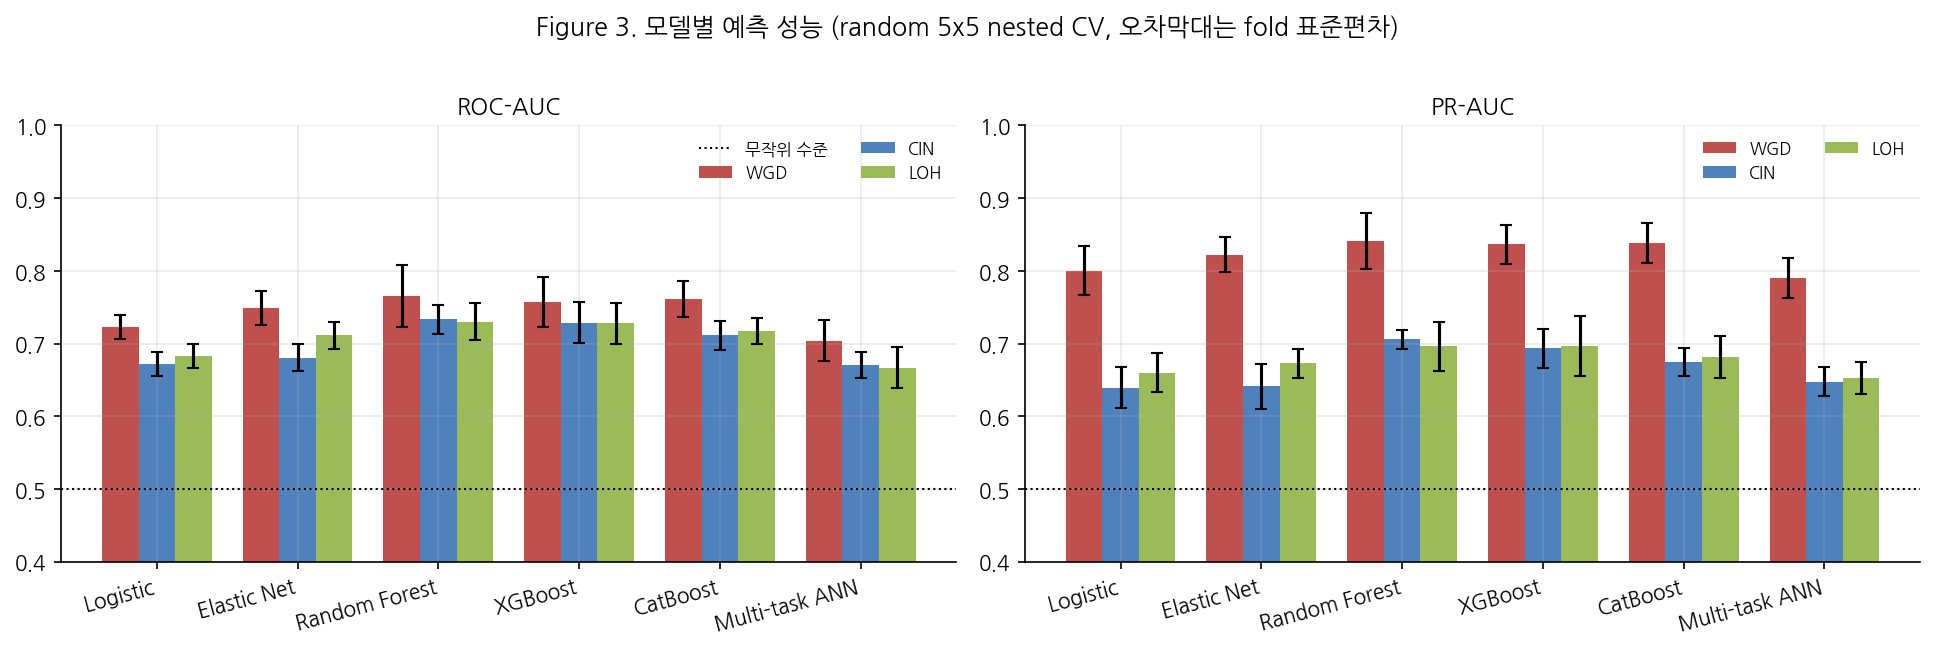
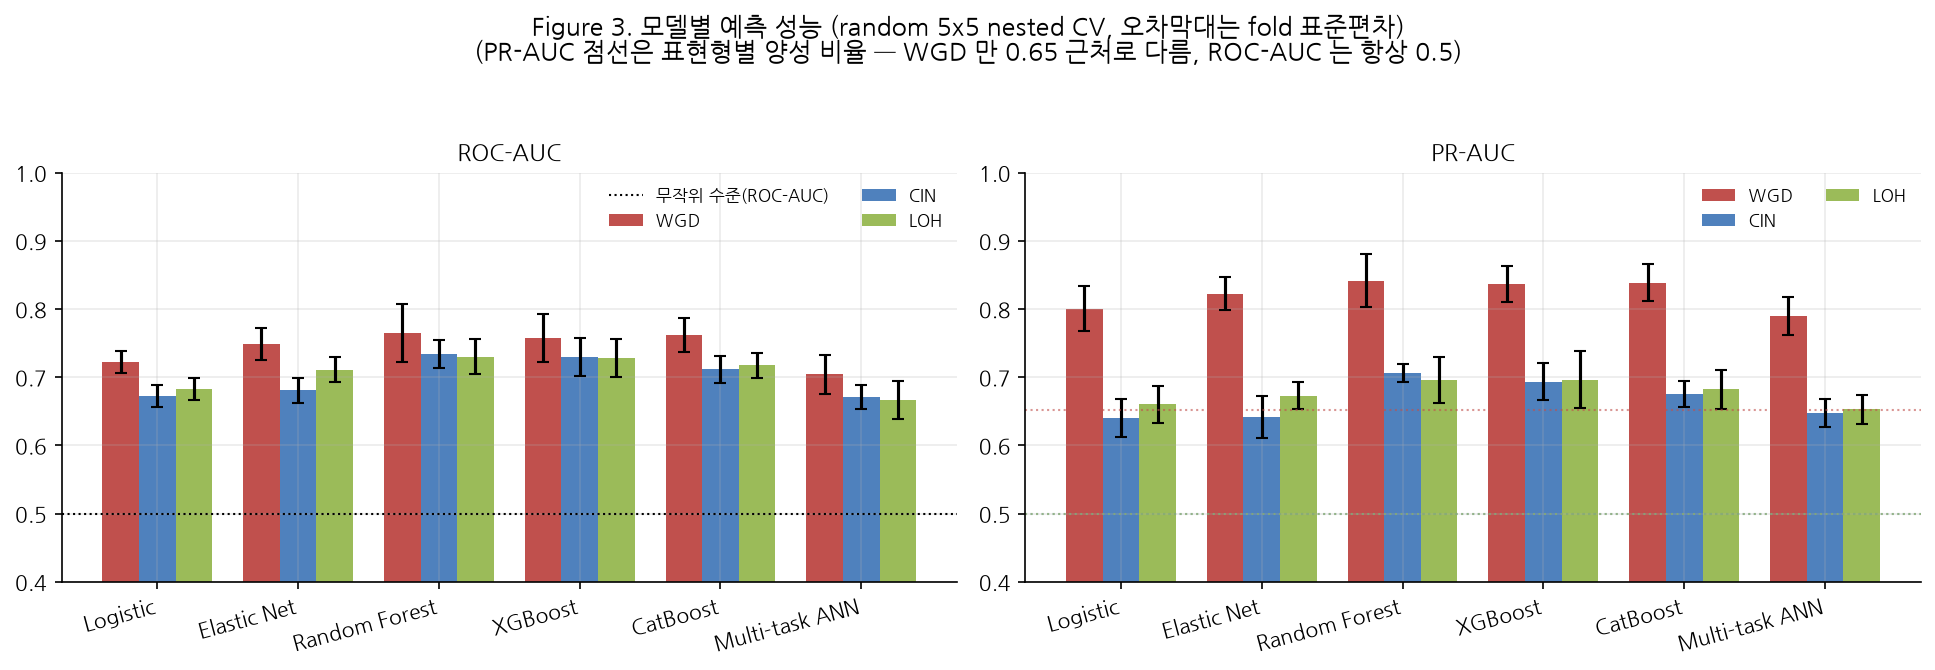
fix: Figure 3 PR-AUC 기준선을 표현형별 양성 비율로, Figure 4(RF) top-30으로 확장
Figure 3: PR-AUC 패널의 무작위 기준선이 ROC-AUC와 똑같이 0.5 한 줄이었는데,
PR-AUC의 무작위 기준선은 클래스 비율과 무관한 0.5가 아니라 양성 비율이다.
WGD는 65.2% 양성이라 기준선이 0.65 근처여야 하는데 0.5로 그려져 있어 모델
성능이 과장돼 보였음(ROC-AUC는 원래도 0.5가 맞아서 그대로 둠). 표현형별
점선 3개로 교체.

Figure 4(Random Forest): 상위 15개만 보여줬는데 RF는 전 fold(5/5) 공통
유전자가 18~21개(표현형별)라 15개 전부 selection_freq=1.0으로 나와 막대
높이 차이가 안 보였음. --top-n CLI 옵션 추가하고 30으로 재생성 —
selection_freq 1.0 미만 구간까지 보여 실제 안정성 차이가 드러남.

버그 발견 및 수정: Figure 3를 다시 만들다가 scripts/06_compare_models.py의
load_cv()가 cv_random_*.csv 를 전부 글롭해서 모으는데, scripts/21_
tcga_validation.py 가 만든 cv_random_random_forest_damaging_only_wgd.csv
(model="random_forest" 컬럼값이 같은 보조 파일)까지 같이 걸려 WGD/RF
행이 오염되는 걸 발견함(ROC-AUC 0.765→0.764, sensitivity 0.752→0.715
등으로 값이 바뀜). MODEL_ORDER × TARGET_LABEL 조합의 정확한 파일명만
읽도록 고쳐서 원천 차단 — day10_model_comparison.csv 재생성 후 git diff
없음(원래 값과 완전히 일치)으로 확인.

diff --git a/scripts/06_compare_models.py b/scripts/06_compare_models.py
@@ -29,15 +29,34 @@ TARGET_LABEL = {"wgd": "WGD", "cin": "CIN", "loh": "LOH"}
 
 
 def load_cv(scheme: str = "random") -> pd.DataFrame:
-    files = sorted(TABLES.glob(f"cv_{scheme}_*.csv"))
+    """`cv_{scheme}_{model}_{target}.csv` 만 정확히 매칭해서 모은다.
+
+    예전에는 `TABLES.glob(f"cv_{scheme}_*.csv")` 로 전부 긁어모았는데,
+    `cv_random_random_forest_damaging_only_wgd.csv`(scripts/21_tcga_validation.py
+    가 TCGA 내부 baseline 비교용으로 만든, model="random_forest" 컬럼값을
+    똑같이 쓰는 보조 파일)까지 같이 걸려서 WGD/RF 행이 오염된 적이 있다
+    (일반 5-fold + damaging-only 5-fold가 섞여 평균됨). `MODEL_ORDER` ×
+    `TARGET_LABEL` 조합의 정확한 파일명만 읽어 이 문제를 원천 차단한다.
+    """
+    files = []
+    for model in MODEL_ORDER:
+        for target in TARGET_LABEL:
+            path = TABLES / f"cv_{scheme}_{model}_{target}.csv"
+            if path.exists():
+                files.append(path)
     if not files:
         raise SystemExit(f"{scheme} 결과가 없습니다. 먼저 05_run_cv.py 를 실행하세요.")
-    return pd.concat([pd.read_csv(f) for f in files], ignore_index=True)
+    return pd.concat([pd.read_csv(f) for f in sorted(files)], ignore_index=True)
 
 
-def plot_comparison(df: pd.DataFrame) -> Path:
+def plot_comparison(df: pd.DataFrame, prevalence: dict[str, float] | None = None) -> Path:
+    """prevalence: {target: 양성 비율}. PR-AUC 무작위 기준선은 ROC-AUC 와 달리
+    0.5 가 아니라 양성 비율이다 — WGD 처럼 클래스가 불균형하면(65.2% 양성)
+    "찍기만 해도" PR-AUC 가 0.65 근처로, 0.5 를 기준선으로 쓰면 모델 성능을
+    과장해 보이게 한다. 안 주면 모든 표현형에 0.5 를 쓴다(과거 동작과 동일)."""
     use_style()
     fig, axes = plt.subplots(1, 2, figsize=(13, 4.2), sharey=False)
+    prevalence = prevalence or {}
 
     for ax, metric, title in ((axes[0], "roc_auc", "ROC-AUC"), (axes[1], "pr_auc", "PR-AUC")):
         models = [m for m in MODEL_ORDER if m in set(df.model)]
@@ -51,15 +70,27 @@ def plot_comparison(df: pd.DataFrame) -> Path:
             ax.bar(x + (i - 1) * width, means, width, yerr=errs, capsize=3,
                    label=TARGET_LABEL[target], color=PHENOTYPE_COLORS[target])
 
-        ax.axhline(0.5, color="k", ls=":", lw=1, label="무작위 수준" if metric == "roc_auc" else None)
+        if metric == "roc_auc":
+            # ROC-AUC 는 클래스 비율과 무관하게 무작위 기준선이 항상 0.5다.
+            ax.axhline(0.5, color="k", ls=":", lw=1, label="무작위 수준(ROC-AUC)")
+        else:
+            # PR-AUC 는 무작위 기준선이 표현형별 양성 비율이다 — 표현형마다
+            # 따로 그린다(WGD 만 0.65 근처, CIN/LOH 는 median split 이라 ~0.5).
+            for target in ("wgd", "cin", "loh"):
+                base = prevalence.get(target, 0.5)
+                ax.axhline(base, color=PHENOTYPE_COLORS[target], ls=":", lw=1, alpha=0.6)
+
         ax.set_xticks(x)
         ax.set_xticklabels([MODEL_LABEL[m] for m in models], rotation=15, ha="right")
         ax.set_title(title)
         ax.set_ylim(0.4, 1.0)
         ax.legend(fontsize=8, ncol=2)
 
-    fig.suptitle("Figure 3. 모델별 예측 성능 (random 5x5 nested CV, 오차막대는 fold 표준편차)",
-                 y=1.02, fontsize=12)
+    fig.suptitle(
+        "Figure 3. 모델별 예측 성능 (random 5x5 nested CV, 오차막대는 fold 표준편차)\n"
+        "(PR-AUC 점선은 표현형별 양성 비율 — WGD 만 0.65 근처로 다름, ROC-AUC 는 항상 0.5)",
+        y=1.05, fontsize=12,
+    )
     fig.tight_layout()
     return save(fig, "fig3_model_comparison.png")
 
@@ -89,7 +120,18 @@ def main() -> int:
               f"BA {best.balanced_accuracy:.3f} | Brier {best.brier:.3f}")
 
     summary.to_csv(TABLES / "day10_model_comparison.csv", index=False)
-    path = plot_comparison(df)
+
+    from src.data.merge import load_cohort
+    from src.labels.binarize import LabelBinarizer
+
+    cohort = load_cohort()
+    prevalence = {t: float(LabelBinarizer(t).fit_transform(cohort.y[t]).mean())
+                 for t in ("wgd", "cin", "loh")}
+    print("\n[PR-AUC 무작위 기준선 — 표현형별 양성 비율]")
+    for t, p in prevalence.items():
+        print(f"  {TARGET_LABEL[t]}: {p:.3f}")
+
+    path = plot_comparison(df, prevalence=prevalence)
     print(f"\n저장: {path.name}, day10_model_comparison.csv")
     return 0
 

diff --git a/scripts/07_aggregate_selection.py b/scripts/07_aggregate_selection.py
@@ -64,6 +64,7 @@ def main() -> int:
     p = argparse.ArgumentParser()
     p.add_argument("--model", default="elastic_net", help="중요도를 집계할 모델")
     p.add_argument("--top-k", type=int, default=50, help="fold 안에서 '선택됨' 으로 볼 상위 개수")
+    p.add_argument("--top-n", type=int, default=15, help="Figure 4에 표시할 유전자 개수")
     args = p.parse_args()
 
     aggs = {}
@@ -96,7 +97,7 @@ def main() -> int:
         print(cross[cols].round(2).to_string(index=False))
         cross.to_csv(TABLES / f"day11_cross_phenotype_{args.model}.csv", index=False)
 
-    path = plot_stability(aggs, args.model)
+    path = plot_stability(aggs, args.model, top_n=args.top_n)
     print(f"\n저장: {path.name}, day11_*.csv")
     return 0
 
